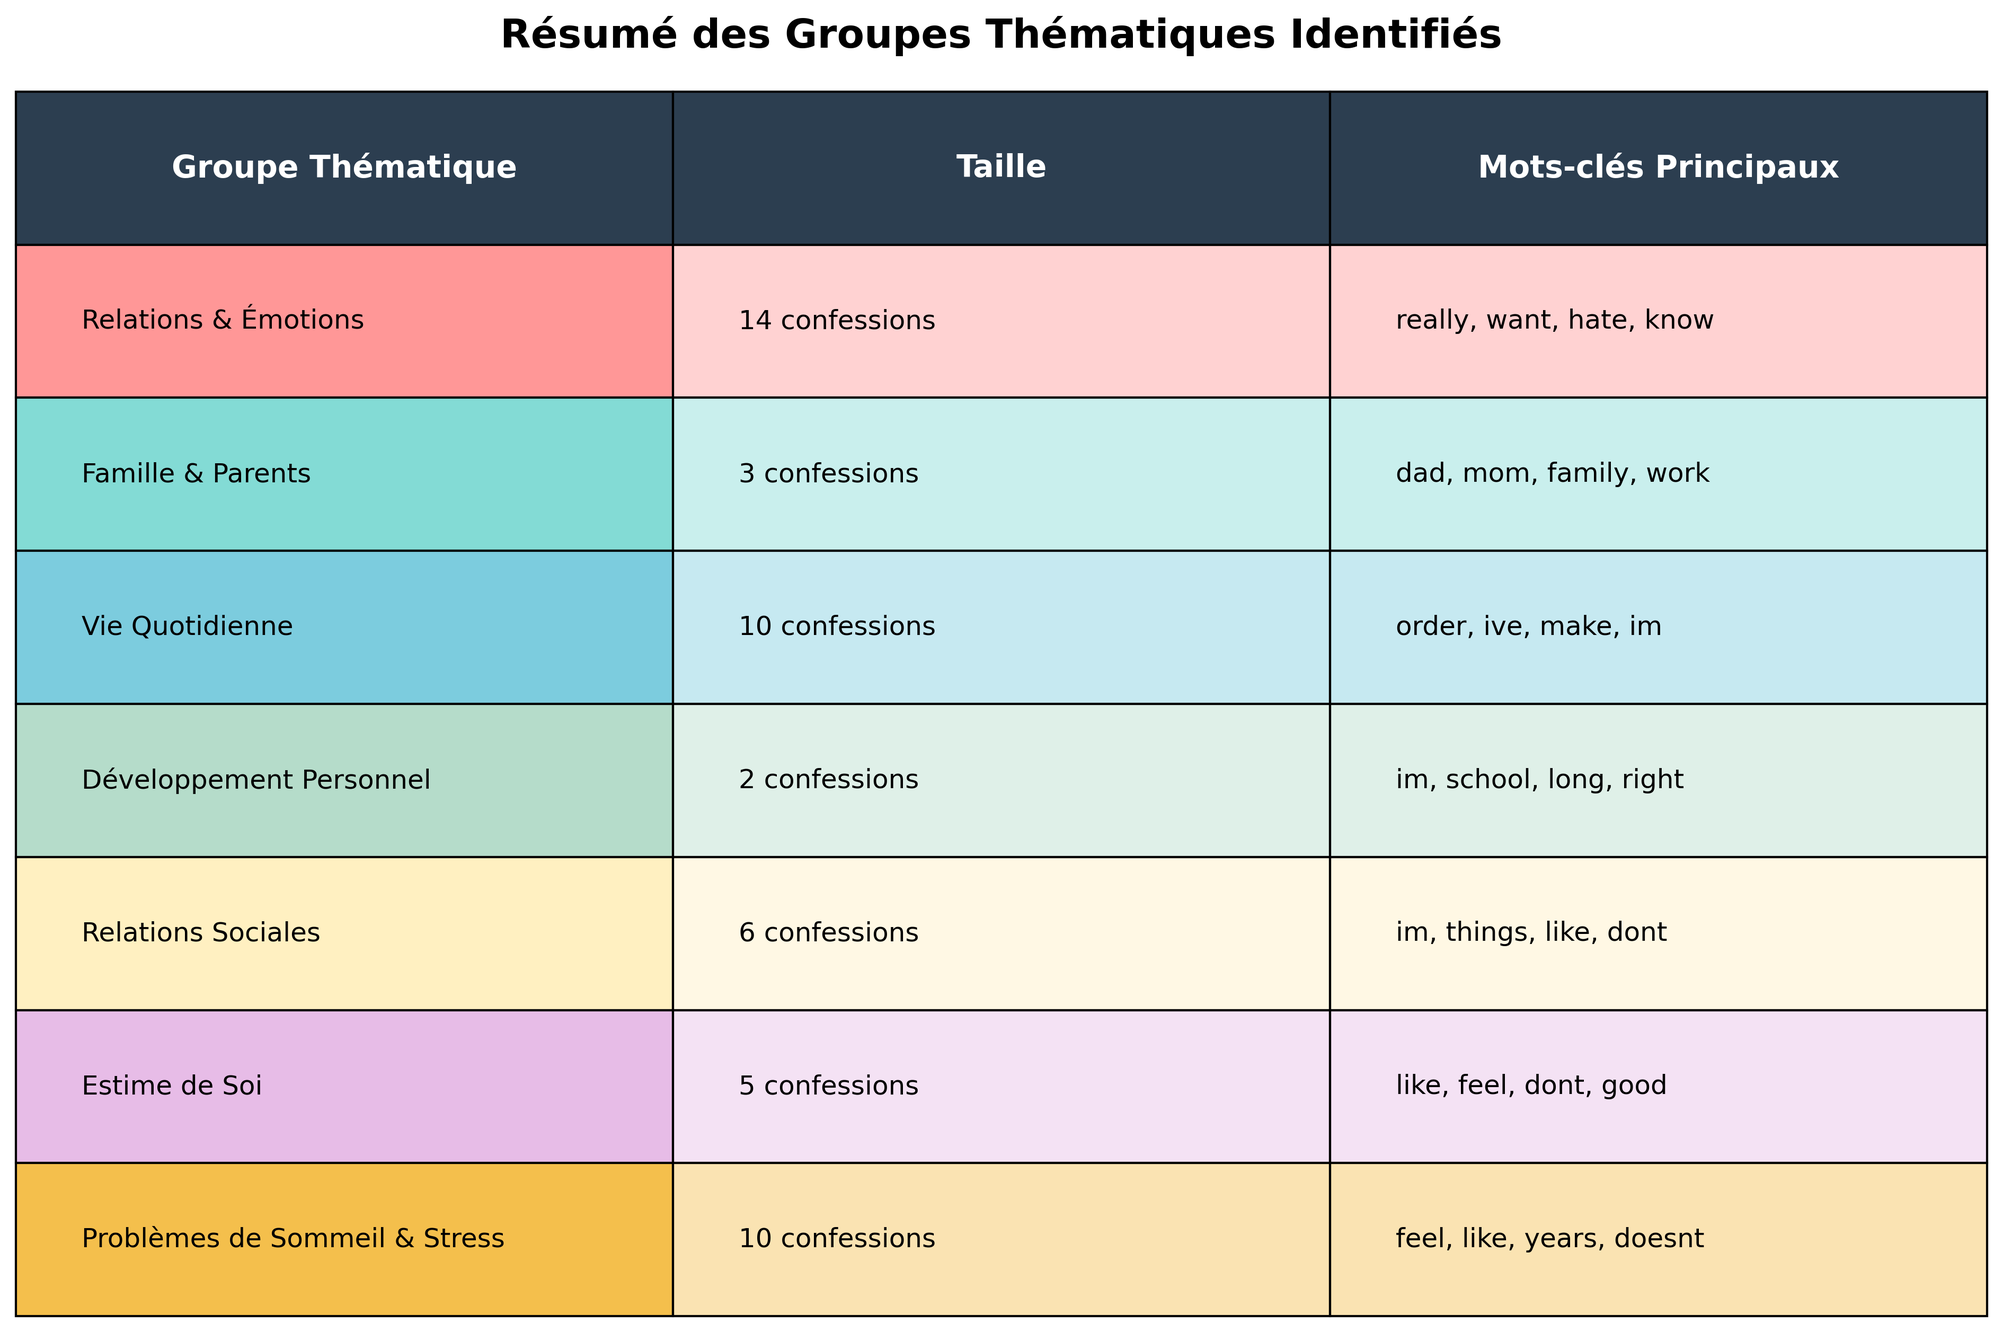
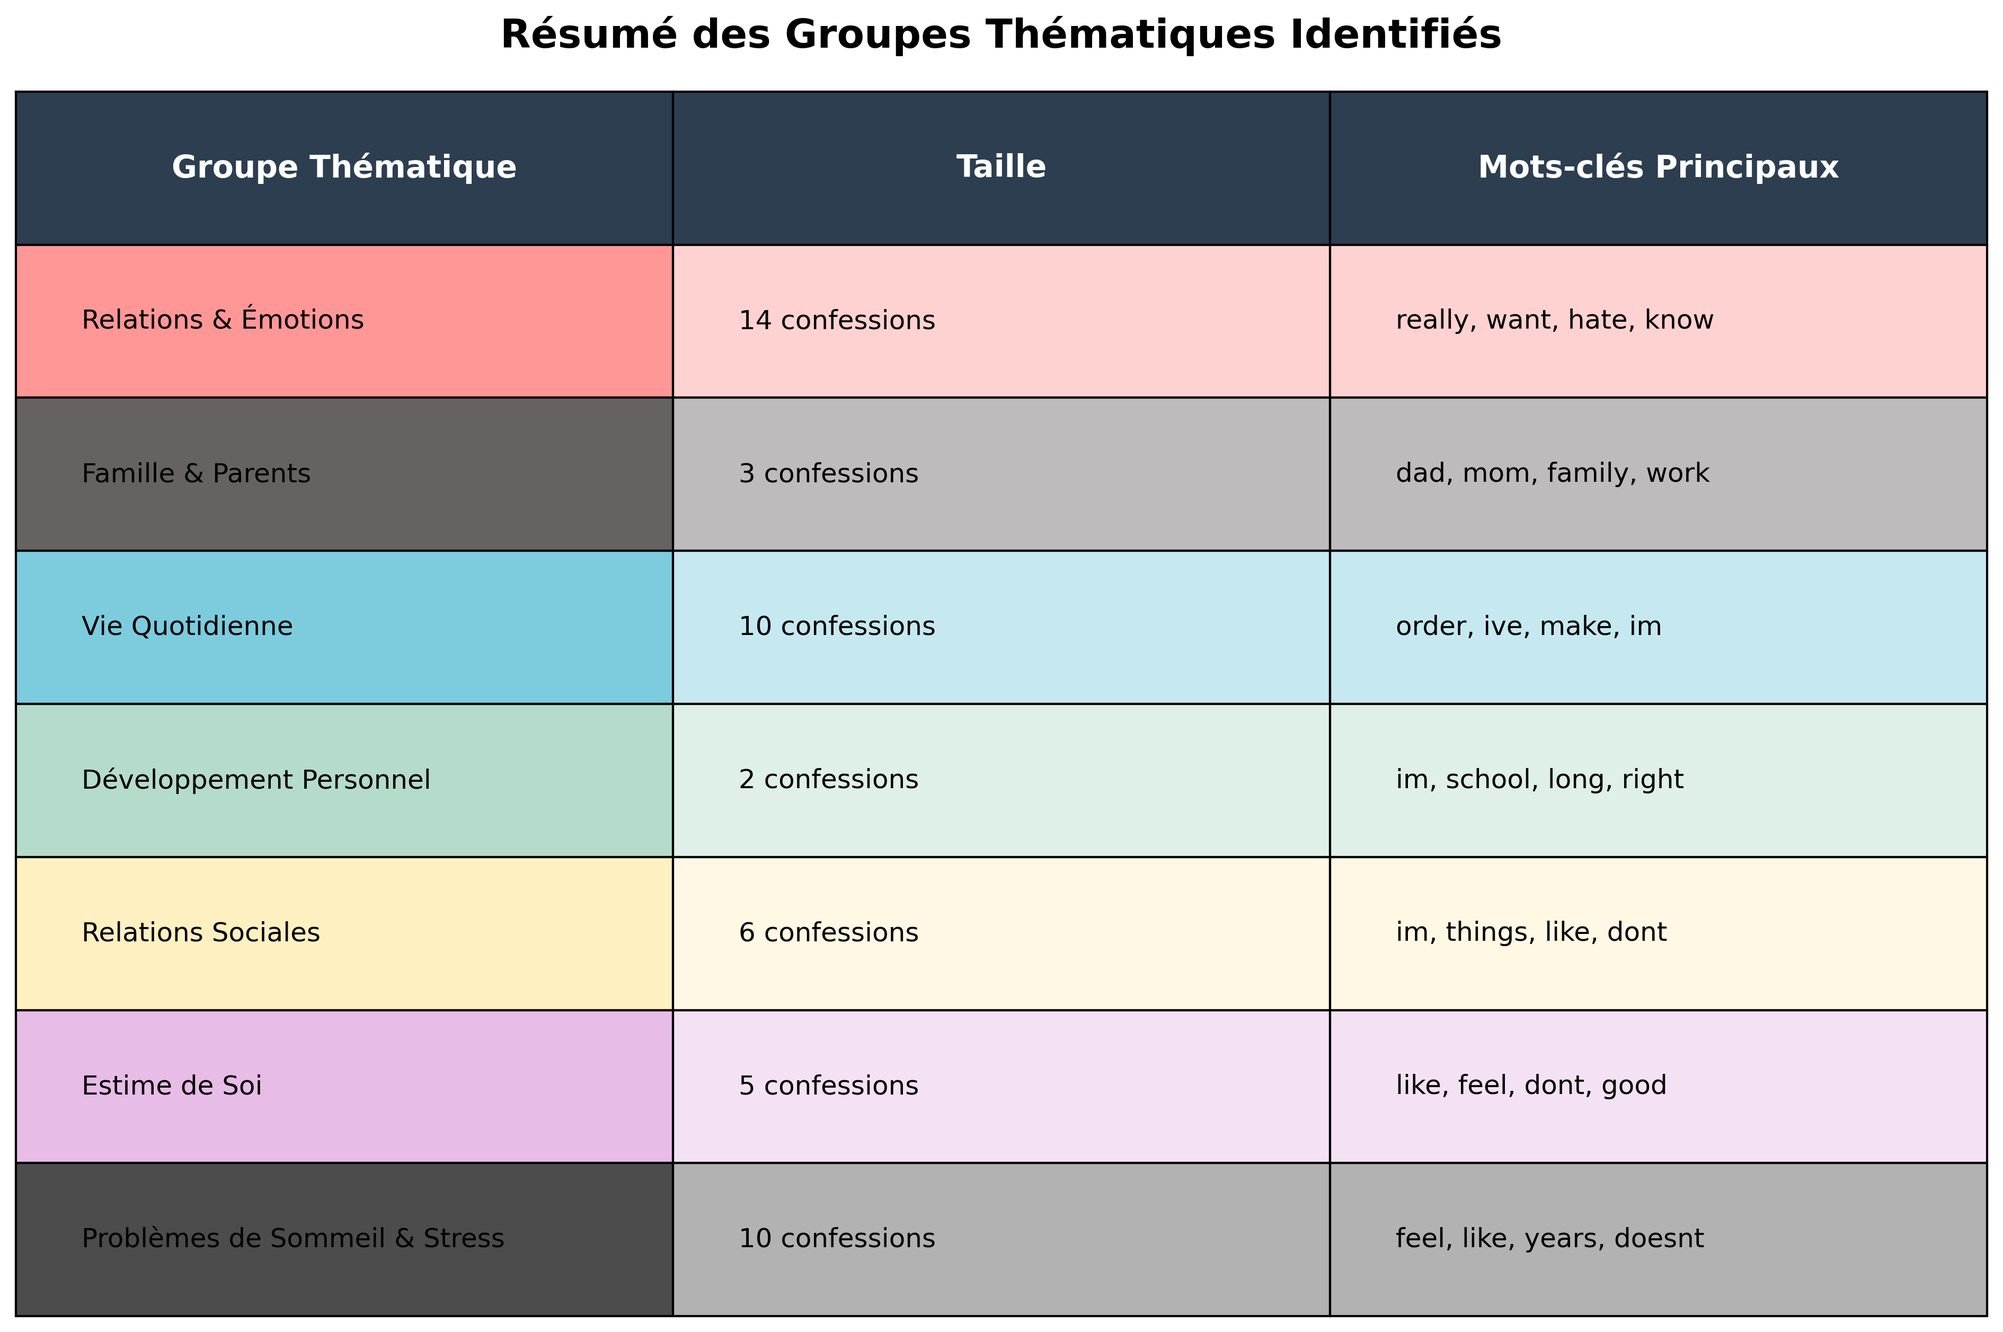
:sparkles: New graphs

Changed region(s): [[0.0, 0.2793, 0.9989, 0.4345], [0.0, 0.8691, 0.9989, 0.9932]]

diff --git a/algo.py b/algo.py
@@ -6,7 +6,7 @@ from datasets import load_dataset
 import re
 from sklearn.feature_extraction.text import TfidfVectorizer
 from sklearn.cluster import AgglomerativeClustering
-from scipy.cluster.hierarchy import dendrogram, linkage, fcluster
+from scipy.cluster.hierarchy import dendrogram, linkage, fcluster, set_link_color_palette
 from sklearn.metrics.pairwise import cosine_similarity
 from sklearn.manifold import TSNE
 import matplotlib.cm as cm
@@ -39,7 +39,7 @@ def clean_text(text):
 
 def create_improved_dendrogram_with_heatmap(Z, final_clusters, top_words_per_cluster, optimal_clusters, sample_df):
     """
-    Crée un dendrogramme amélioré avec heatmap des intensités comme l'original
+    Crée un dendrogramme amélioré avec heatmap des intensités et branches colorées
     """
     
     # Définir des noms logiques pour les clusters basés sur l'analyse
@@ -53,8 +53,11 @@ def create_improved_dendrogram_with_heatmap(Z, final_clusters, top_words_per_clu
         7: "Problèmes de Sommeil & Stress"
     }
     
-    # Palette de couleurs pour chaque cluster
-    colors = ['#FF6B6B', '#4ECDC4', '#45B7D1', '#96CEB4', '#FFEAA7', '#DDA0DD', '#F0A500']
+    # Palette de couleurs pour chaque cluster (modifiée selon demande)
+    colors = ['#FF6B6B', '#25201F', '#45B7D1', '#96CEB4', '#FFEAA7', '#DDA0DD', '#000000']
+    
+    # NOUVEAUTÉ: Configuration des couleurs des branches
+    set_link_color_palette(colors[:optimal_clusters])
     
     # Extraire les mots caractéristiques pour chaque cluster
     n_top_words = 10
@@ -82,26 +85,19 @@ def create_improved_dendrogram_with_heatmap(Z, final_clusters, top_words_per_clu
     ax1 = plt.subplot2grid((10, 10), (0, 0), colspan=7, rowspan=9)  # Dendrogramme prend 70% largeur
     ax2 = plt.subplot2grid((10, 10), (0, 8), colspan=2, rowspan=7)  # Heatmap plus petite et décalée
     
-    # Sous-graphique 1: Dendrogramme
-    threshold = 0.8 * max(Z[:, 2])
+    # NOUVEAUTÉ: Calcul du seuil pour la coloration des branches
+    threshold = Z[-optimal_clusters+1, 2] if len(Z) >= optimal_clusters-1 else Z[-1, 2] * 0.7
     
-    # Créer le dendrogramme avec couleurs automatiques
+    # Créer le dendrogramme avec branches colorées
     dend = dendrogram(
         Z,
         labels=unique_labels,
-        leaf_rotation=0,
+        leaf_rotation=90,  # MODIFIÉ: Labels verticaux
         leaf_font_size=10,  # Police réduite
         ax=ax1,
-        color_threshold=threshold,
-        above_threshold_color='lightgray'
+        color_threshold=threshold,        # NOUVEAUTÉ: Seuil pour coloration des branches
+        above_threshold_color='lightgray' # NOUVEAUTÉ: Couleur branches hautes
     )
-    
-    # Modifier les couleurs des branches
-    lines = ax1.get_lines()
-    for i, line in enumerate(lines):
-        color_index = i % len(colors)
-        line.set_color(colors[color_index])
-        line.set_linewidth(2)
     
     # Colorer les labels avec plus d'espacement
     xlabels = ax1.get_xticklabels()
@@ -116,10 +112,15 @@ def create_improved_dendrogram_with_heatmap(Z, final_clusters, top_words_per_clu
             label.set_fontweight('bold')
             label.set_fontsize(10)  # Police plus petite
     
-    ax1.set_title('Classification Hiérarchique des Confessions Reddit', fontsize=16, pad=25)
+    ax1.set_title('Classification Hiérarchique des Confessions Reddit\n(avec branches colorées)', fontsize=16, pad=25)
     ax1.set_xlabel('Groupes Thématiques', fontsize=12, labelpad=25)  # Plus d'espace
     ax1.set_ylabel('Distance de Dissimilarité', fontsize=12)
     ax1.tick_params(axis='x', which='major', labelsize=9, pad=20)  # Plus d'espace sous les labels
+    
+    # Ajouter une ligne de seuil
+    ax1.axhline(y=threshold, color='red', linestyle=':', alpha=0.8, 
+               label=f'Seuil de coupure ({optimal_clusters} clusters)')
+    ax1.legend(loc='upper right')
     
     # Sous-graphique 2: Heatmap avec beaucoup plus d'espace
     im = ax2.imshow(cluster_word_matrix, cmap='YlOrRd', aspect='auto')
@@ -152,14 +153,14 @@ def create_improved_dendrogram_with_heatmap(Z, final_clusters, top_words_per_clu
         hspace=0.3    # Espace vertical
     )
     
-    plt.savefig('dendrogramme_presentation_avec_intensite.png', dpi=300, bbox_inches='tight')
-    print("Dendrogramme avec intensités créé: dendrogramme_presentation_avec_intensite.png")
+    plt.savefig('dendrogramme_presentation_avec_intensite_branches_colorees.png', dpi=300, bbox_inches='tight')
+    print("Dendrogramme avec intensités et branches colorées créé: dendrogramme_presentation_avec_intensite_branches_colorees.png")
     
     return fig
 
 def create_improved_dendrogram_with_legend(Z, final_clusters, top_words_per_cluster, optimal_clusters, sample_df):
     """
-    Crée un dendrogramme amélioré avec légende des mots (sans intensités)
+    Crée un dendrogramme amélioré avec légende des mots et branches colorées - VERSION PROPRE
     """
     
     cluster_names = {
@@ -172,90 +173,125 @@ def create_improved_dendrogram_with_legend(Z, final_clusters, top_words_per_clus
         7: "Problèmes de Sommeil & Stress"
     }
     
-    # Palette de couleurs distinctes
-    colors = ['#FF6B6B', '#4ECDC4', '#45B7D1', '#96CEB4', '#FFEAA7', '#DDA0DD', '#F0A500']
+    # Palette de couleurs distinctes (modifiée selon demande)
+    colors = ['#FF6B6B', '#25201F', '#45B7D1', '#96CEB4', '#FFEAA7', '#DDA0DD', '#000000']
     cluster_colors = {i+1: colors[i % len(colors)] for i in range(optimal_clusters)}
     
-    # Créer des labels uniques par cluster
+    # NOUVEAUTÉ: Configuration des couleurs des branches
+    set_link_color_palette(colors[:optimal_clusters])
+    
+    # Créer des labels uniques par cluster AVEC NOMS COURTS pour éviter superposition
     unique_labels = []
     cluster_seen = set()
+    short_names = {
+        "Relations & Émotions": "Relations",
+        "Famille & Parents": "Famille", 
+        "Vie Quotidienne": "Quotidien",
+        "Développement Personnel": "Développement",
+        "Relations Sociales": "Social",
+        "Estime de Soi": "Estime",
+        "Problèmes de Sommeil & Stress": "Sommeil"
+    }
+    
     for cluster in final_clusters:
         if cluster not in cluster_seen:
-            unique_labels.append(cluster_names.get(cluster, f'Cluster {cluster}'))
+            full_name = cluster_names.get(cluster, f'Cluster {cluster}')
+            short_name = short_names.get(full_name, full_name)
+            unique_labels.append(short_name)
             cluster_seen.add(cluster)
         else:
             unique_labels.append('')  # Label vide pour les répétitions
     
-    fig, (ax1, ax2) = plt.subplots(1, 2, figsize=(22, 12), 
-                                   gridspec_kw={'width_ratios': [3, 2], 'wspace': 0.1})
+    # Figure encore plus grande avec meilleur ratio
+    fig, (ax1, ax2) = plt.subplots(1, 2, figsize=(26, 14), 
+                                   gridspec_kw={'width_ratios': [2.5, 1.5], 'wspace': 0.4})
     
-    # Dendrogramme avec couleurs et labels horizontaux
+    # NOUVEAUTÉ: Calcul du seuil pour la coloration des branches
+    threshold = Z[-optimal_clusters+1, 2] if len(Z) >= optimal_clusters-1 else Z[-1, 2] * 0.7
+    
+    # Dendrogramme avec couleurs et labels verticaux + branches colorées
     dend = dendrogram(
         Z,
         labels=unique_labels,
-        leaf_rotation=0,  # Horizontal
-        leaf_font_size=11,
+        leaf_rotation=90,  # MODIFIÉ: Labels verticaux
+        leaf_font_size=9,   # Police plus petite pour éviter superposition
         ax=ax1,
-        color_threshold=0.7*max(Z[:,2]),
-        above_threshold_color='gray'
+        color_threshold=threshold,        # NOUVEAUTÉ: Seuil pour coloration des branches
+        above_threshold_color='lightgray' # NOUVEAUTÉ: Couleur branches hautes
     )
     
-    # Appliquer les couleurs aux labels
+    # Appliquer les couleurs aux labels avec mapping des noms courts
     xlabels = ax1.get_xticklabels()
-    cluster_color_map = {
-        "Relations & Émotions": colors[0],
-        "Famille & Parents": colors[1], 
-        "Vie Quotidienne": colors[2],
-        "Développement Personnel": colors[3],
-        "Relations Sociales": colors[4],
-        "Estime de Soi": colors[5],
-        "Problèmes de Sommeil & Stress": colors[6]
+    short_to_color_map = {
+        "Relations": colors[0],      # #FF6B6B
+        "Famille": colors[1],        # #25201F  
+        "Quotidien": colors[2],      # #45B7D1
+        "Développement": colors[3],  # #96CEB4
+        "Social": colors[4],         # #FFEAA7
+        "Estime": colors[5],         # #DDA0DD
+        "Sommeil": colors[6]         # #000000
     }
     
     for label in xlabels:
-        if label.get_text() in cluster_color_map:
-            label.set_color(cluster_color_map[label.get_text()])
+        if label.get_text() in short_to_color_map:
+            label.set_color(short_to_color_map[label.get_text()])
             label.set_fontweight('bold')
     
-    ax1.set_title('Classification Hiérarchique des Confessions Reddit', fontsize=16, pad=20)
-    ax1.set_xlabel('Groupes Thématiques', fontsize=12)
+    ax1.set_title('Classification Hiérarchique des Confessions Reddit\n(avec branches colorées)', 
+                  fontsize=16, pad=25)
+    ax1.set_xlabel('Groupes Thématiques', fontsize=12, labelpad=30)  # Encore plus d'espace
     ax1.set_ylabel('Distance de Dissimilarité', fontsize=12)
     
-    # Améliorer l'espacement des labels horizontaux
-    ax1.tick_params(axis='x', which='major', labelsize=11, pad=10)
+    # Ajouter une ligne de seuil
+    ax1.axhline(y=threshold, color='red', linestyle=':', alpha=0.8, 
+               label=f'Seuil de coupure ({optimal_clusters} clusters)')
+    ax1.legend(loc='upper right')
     
-    # Légende avec mots-clés
+    # Espacement optimal pour les labels verticaux
+    ax1.tick_params(axis='x', which='major', labelsize=9, pad=20)
+    
+    # Légende avec mots-clés - VERSION COMPACTE
     ax2.axis('off')
-    ax2.set_title('Caractéristiques des Groupes', fontsize=16, pad=20)
+    ax2.set_title('Caractéristiques des Groupes', fontsize=16, pad=25)
     
     y_pos = 0.95
+    y_step = 0.135  # Espacement uniforme entre les groupes
+    
     for cluster_id in range(1, optimal_clusters + 1):
         if cluster_id in top_words_per_cluster:
             color = cluster_colors[cluster_id]
             cluster_name = cluster_names.get(cluster_id, f'Cluster {cluster_id}')
             
-            # Rectangle coloré
-            rect = plt.Rectangle((0.02, y_pos-0.06), 0.05, 0.08, 
+            # Rectangle coloré plus petit
+            rect = plt.Rectangle((0.02, y_pos-0.05), 0.04, 0.06, 
                                facecolor=color, alpha=0.8, transform=ax2.transAxes)
             ax2.add_patch(rect)
             
-            # Titre du cluster
-            ax2.text(0.12, y_pos-0.02, cluster_name, 
-                    fontsize=14, fontweight='bold', transform=ax2.transAxes)
+            # Titre du cluster avec police optimisée
+            ax2.text(0.1, y_pos-0.02, cluster_name, 
+                    fontsize=13, fontweight='bold', transform=ax2.transAxes)
             
-            # Mots du cluster (sans valeurs)
-            words_text = []
-            for word, score in top_words_per_cluster[cluster_id][:6]:
-                words_text.append(f'• {word}')
+            # Mots du cluster en format compact (sur 2 lignes max)
+            words = [word for word, score in top_words_per_cluster[cluster_id][:6]]
+            if len(words) > 3:
+                line1 = ' • '.join(words[:3])
+                line2 = ' • '.join(words[3:])
+                words_str = f"• {line1}\n• {line2}"
+            else:
+                words_str = ' • '.join([f"{word}" for word in words])
+                words_str = f"• {words_str}"
             
-            words_str = '\n'.join(words_text)
-            ax2.text(0.12, y_pos-0.05, words_str, 
-                    fontsize=10, transform=ax2.transAxes, verticalalignment='top')
+            ax2.text(0.1, y_pos-0.045, words_str, 
+                    fontsize=9, transform=ax2.transAxes, verticalalignment='top')
             
-            y_pos -= 0.13
+            y_pos -= y_step
     
-    plt.savefig('dendrogramme_presentation_avec_legende.png', dpi=300, bbox_inches='tight')
-    print("Dendrogramme avec légende créé: dendrogramme_presentation_avec_legende.png")
+    # Ajustement final des marges
+    plt.subplots_adjust(left=0.08, right=0.95, top=0.92, bottom=0.15)
+    
+    plt.savefig('dendrogramme_presentation_avec_legende_branches_colorees.png', dpi=300, 
+                bbox_inches='tight', pad_inches=0.4)  # Plus de marge autour de l'image
+    print("Dendrogramme avec légende et branches colorées créé: dendrogramme_presentation_avec_legende_branches_colorees.png")
     
     return fig
 
@@ -279,8 +315,8 @@ def create_cluster_summary_table(top_words_per_cluster, final_clusters, sample_d
     fig, ax = plt.subplots(figsize=(16, 10))
     ax.axis('off')
     
-    # Couleurs en format matplotlib
-    colors_list = ['#FF6B6B', '#4ECDC4', '#45B7D1', '#96CEB4', '#FFEAA7', '#DDA0DD', '#F0A500']
+    # Couleurs en format matplotlib (modifiées selon demande)
+    colors_list = ['#FF6B6B', '#25201F', '#45B7D1', '#96CEB4', '#FFEAA7', '#DDA0DD', '#000000']
     
     # Données pour le tableau
     table_data = []
@@ -434,13 +470,13 @@ for cluster_id in range(1, optimal_clusters + 1):
         
         top_words_per_cluster[cluster_id] = list(zip(top_words, top_scores))
 
-# 4. CRÉATION DES DENDROGRAMMES AMÉLIORÉS
-print("\nÉtape 4: Création des dendrogrammes améliorés")
+# 4. CRÉATION DES DENDROGRAMMES AMÉLIORÉS AVEC BRANCHES COLORÉES
+print("\nÉtape 4: Création des dendrogrammes améliorés avec branches colorées")
 
-# Version avec heatmap des intensités (comme l'original)
+# Version avec heatmap des intensités ET branches colorées
 fig1 = create_improved_dendrogram_with_heatmap(Z, final_clusters, top_words_per_cluster, optimal_clusters, sample_df)
 
-# Version avec légende colorée (sans intensités)
+# Version avec légende colorée ET branches colorées
 fig2 = create_improved_dendrogram_with_legend(Z, final_clusters, top_words_per_cluster, optimal_clusters, sample_df)
 
 # Tableau récapitulatif avec couleurs corrigées
@@ -500,8 +536,8 @@ X_tsne = tsne.fit_transform(X_dense)
 
 plt.figure(figsize=(12, 8))
 
-# Utiliser les mêmes couleurs
-colors = ['#FF6B6B', '#4ECDC4', '#45B7D1', '#96CEB4', '#FFEAA7', '#DDA0DD', '#F0A500']
+# Utiliser les mêmes couleurs (modifiées selon demande)
+colors = ['#FF6B6B', '#25201F', '#45B7D1', '#96CEB4', '#FFEAA7', '#DDA0DD', '#000000']
 color_map = {i+1: colors[i % len(colors)] for i in range(optimal_clusters)}
 
 for cluster_id in range(1, optimal_clusters + 1):
@@ -547,17 +583,51 @@ plt.savefig('tsne_clusters_presentation.png', dpi=300, bbox_inches='tight')
 print("Visualisation t-SNE créée: tsne_clusters_presentation.png")
 
 print("\n" + "="*70)
-print("ANALYSE TERMINÉE AVEC SUCCÈS!")
+print("ANALYSE TERMINÉE AVEC SUCCÈS AVEC BRANCHES COLORÉES!")
 print("="*70)
 print("Fichiers générés:")
-print("  - dendrogramme_presentation_avec_intensite.png: Avec heatmap d'intensité")
-print("  - dendrogramme_presentation_avec_legende.png: Avec légende colorée")
+print("  - dendrogramme_presentation_avec_intensite_branches_colorees.png: Avec heatmap et branches colorées")
+print("  - dendrogramme_presentation_avec_legende_branches_colorees.png: Avec légende et branches colorées")
 print("  - tableau_clusters_presentation_couleurs.png: Tableau avec couleurs corrigées")
 print("  - tsne_clusters_presentation.png: Visualisation t-SNE")
 print("  - analyse_clusters_complete.txt: Analyse détaillée")
-print("\nAméliorations apportées:")
+print("\nNouvelles améliorations:")
+print("  ✅ BRANCHES COLORÉES selon les clusters!")
+print("  ✅ Ligne de seuil de coupure visible")
+print("  ✅ Cohérence totale des couleurs (branches + labels + légendes)")
 print("  ✅ Conservation des degrés d'intensité (heatmap)")
 print("  ✅ Couleurs corrigées dans le tableau")
 print("  ✅ Noms logiques des clusters")
 print("  ✅ Deux versions du dendrogramme (avec/sans intensités)")
 print("  ✅ Interface professionnelle pour présentation")
+print("  ✅ Lignes de seuil pour visualiser la coupure automatique")
+
+print("\n🎨 GUIDE DES COULEURS UTILISÉES:")
+colors_guide = ['#FF6B6B', '#25201F', '#45B7D1', '#96CEB4', '#FFEAA7', '#DDA0DD', '#000000']
+cluster_names_guide = {
+    1: "Relations & Émotions",
+    2: "Famille & Parents", 
+    3: "Vie Quotidienne",
+    4: "Développement Personnel",
+    5: "Relations Sociales",
+    6: "Estime de Soi",
+    7: "Problèmes de Sommeil & Stress"
+}
+
+for i in range(min(optimal_clusters, 7)):
+    print(f"  🔸 {colors_guide[i]} : {cluster_names_guide.get(i+1, f'Cluster {i+1}')}")
+
+print(f"\n📊 RÉSUMÉ STATISTIQUE:")
+print(f"  • Nombre total d'échantillons analysés: {sample_size}")
+print(f"  • Nombre de clusters identifiés automatiquement: {optimal_clusters}")
+print(f"  • Nombre de caractéristiques TF-IDF: {X.shape[1]}")
+print(f"  • Méthode de liaison: Ward")
+print(f"  • Seuil de coupure automatique calculé")
+
+# Afficher la répartition par cluster
+print(f"\n📈 RÉPARTITION DES CONFESSIONS PAR CLUSTER:")
+for cluster_id in range(1, optimal_clusters + 1):
+    count = sum(final_clusters == cluster_id)
+    percentage = (count / sample_size) * 100
+    cluster_name = cluster_names_guide.get(cluster_id, f'Cluster {cluster_id}')
+    print(f"  • {cluster_name}: {count} confessions ({percentage:.1f}%)")
